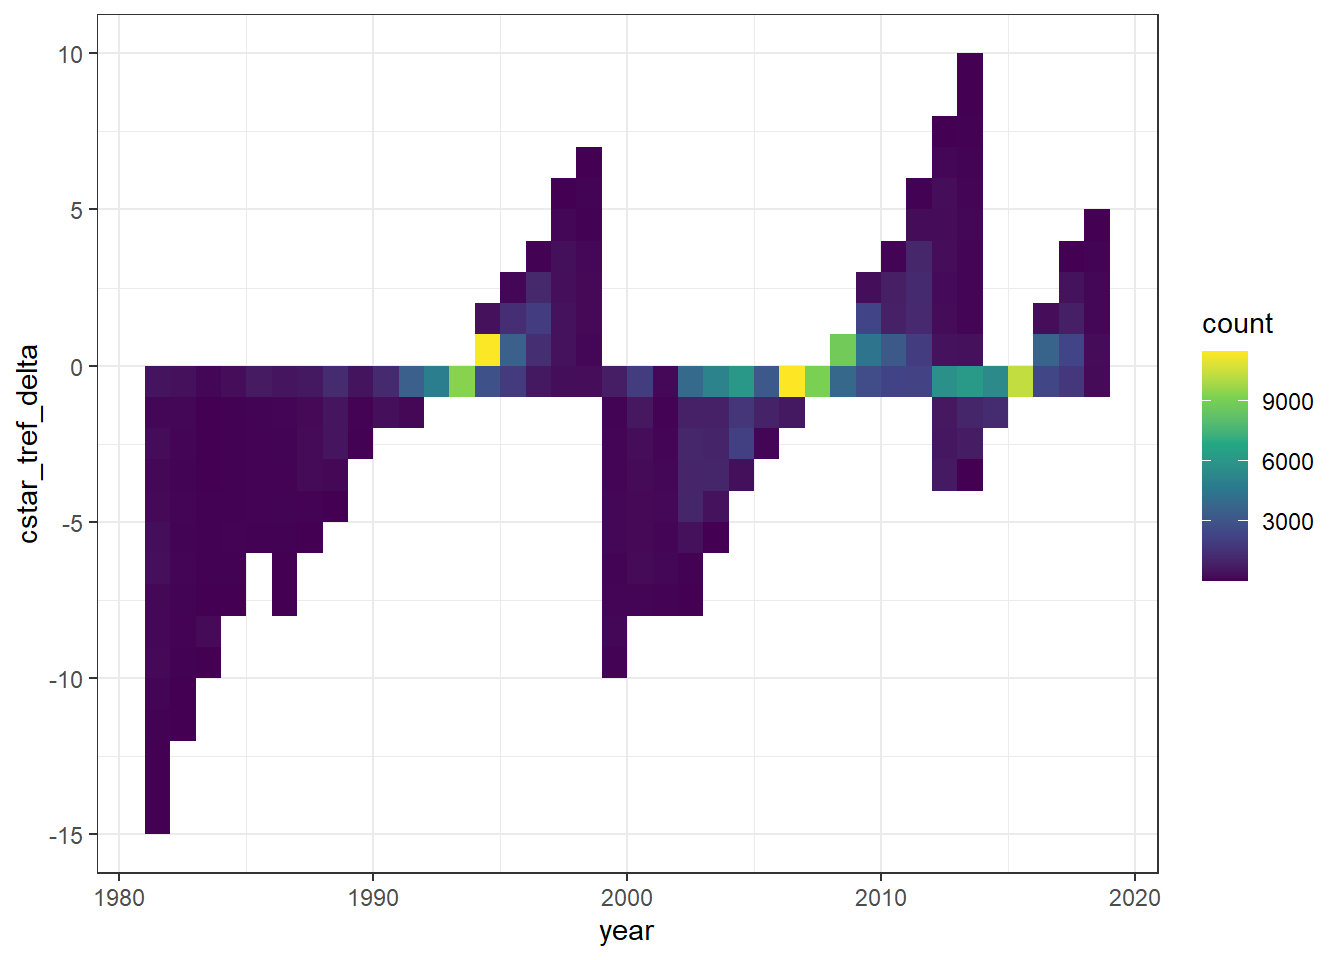
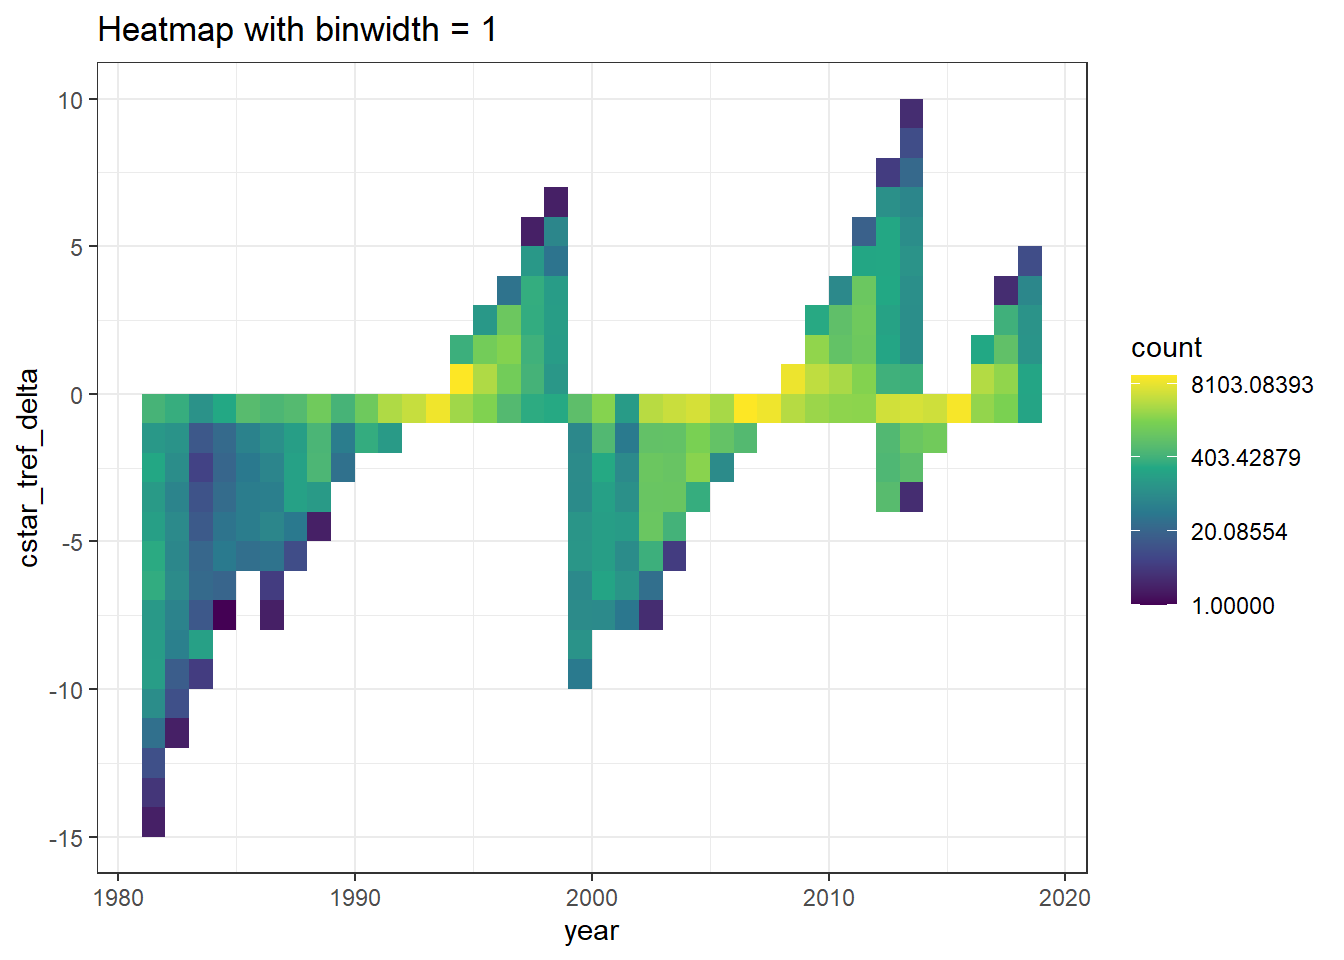
Build site.

diff --git a/docs/eMLR_data_preparation.html b/docs/eMLR_data_preparation.html
@@ -615,16 +615,16 @@ This reproducible <a href="http://rmarkdown.rstudio.com">R Markdown</a> analysis
 <div class="panel panel-default">
 <div class="panel-heading">
 <p class="panel-title">
-<a data-toggle="collapse" data-parent="#workflowr-checks" href="#strongRepositoryversionstrongahrefhttpsgithubcomjensdanielmuellerCanteMLRtreeeb8366004928a2a5e1cb3357b8668fb3d3811cb2targetblankeb83660a"> <span class="glyphicon glyphicon-ok text-success" aria-hidden="true"></span> <strong>Repository version:</strong> <a href="https://github.com/jens-daniel-mueller/Cant_eMLR/tree/eb8366004928a2a5e1cb3357b8668fb3d3811cb2" target="_blank">eb83660</a> </a>
+<a data-toggle="collapse" data-parent="#workflowr-checks" href="#strongRepositoryversionstrongahrefhttpsgithubcomjensdanielmuellerCanteMLRtree9b95647a7fe12469619fb257df40b603d8c56175targetblank9b95647a"> <span class="glyphicon glyphicon-ok text-success" aria-hidden="true"></span> <strong>Repository version:</strong> <a href="https://github.com/jens-daniel-mueller/Cant_eMLR/tree/9b95647a7fe12469619fb257df40b603d8c56175" target="_blank">9b95647</a> </a>
 </p>
 </div>
[2 lines of base64/hex data omitted]
 <div class="panel-body">
 <p>
 Great! You are using Git for version control. Tracking code development and connecting the code version to the results is critical for reproducibility.
 </p>
 <p>
-The results in this page were generated with repository version <a href="https://github.com/jens-daniel-mueller/Cant_eMLR/tree/eb8366004928a2a5e1cb3357b8668fb3d3811cb2" target="_blank">eb83660</a>. See the <em>Past versions</em> tab to see a history of the changes made to the R Markdown and HTML files.
+The results in this page were generated with repository version <a href="https://github.com/jens-daniel-mueller/Cant_eMLR/tree/9b95647a7fe12469619fb257df40b603d8c56175" target="_blank">9b95647</a>. See the <em>Past versions</em> tab to see a history of the changes made to the R Markdown and HTML files.
 </p>
 <p>
 Note that you need to be careful to ensure that all relevant files for the analysis have been committed to Git prior to generating the results (you can use <code>wflow_publish</code> or <code>wflow_git_commit</code>). workflowr only checks the R Markdown file, but you know if there are other scripts or data files that it depends on. Below is the status of the Git repository when the results were generated:
@@ -672,6 +672,40 @@ Message
 </tr>
 </thead>
 <tbody>
+<tr>
+<td>
+Rmd
+</td>
+<td>
+<a href="https://github.com/jens-daniel-mueller/Cant_eMLR/blob/9b95647a7fe12469619fb257df40b603d8c56175/analysis/eMLR_data_preparation.Rmd" target="_blank">9b95647</a>
+</td>
+<td>
+jens-daniel-mueller
+</td>
+<td>
+2020-11-27
+</td>
+<td>
+change binwidth of control plots
+</td>
+</tr>
+<tr>
+<td>
+html
+</td>
+<td>
+<a href="https://rawcdn.githack.com/jens-daniel-mueller/Cant_eMLR/75e56a15c325a39a76602b1f7af27bf8a759488e/docs/eMLR_data_preparation.html" target="_blank">75e56a1</a>
+</td>
+<td>
+jens-daniel-mueller
+</td>
+<td>
+2020-11-27
+</td>
+<td>
+Build site.
+</td>
+</tr>
 <tr>
 <td>
 Rmd
@@ -1913,28 +1947,24 @@ GLODAP &lt;- GLODAP %&gt;%
 </div>
 <div id="control-plots" class="section level2">
 <h2><span class="header-section-number">5.3</span> Control plots</h2>
-<div id="histogram" class="section level3">
-<h3><span class="header-section-number">5.3.1</span> Histogram</h3>
 <pre class="r"><code>GLODAP %&gt;% 
   ggplot(aes(cstar_tref_delta)) +
-  geom_histogram(binwidth = 1)</code></pre>
+  geom_histogram(binwidth = 1) +
+  labs(title = &quot;Histogramm with binwidth = 1&quot;)</code></pre>
 <p><img src="figure/eMLR_data_preparation.Rmd/cstar_reference_year_adjustment_histogram-1.png" width="672" style="display: block; margin: auto;" /></p>
-</div>
-<div id="time-series" class="section level3">
-<h3><span class="header-section-number">5.3.2</span> Time series</h3>
 <pre class="r"><code>GLODAP %&gt;% 
   sample_n(1e4) %&gt;% 
   ggplot(aes(year, cstar_tref_delta, col = cant_pos)) +
   geom_point() +
   scale_color_viridis_c() +
-  labs(title = &quot;random subsample 1e4&quot;)</code></pre>
+  labs(title = &quot;Time series of random subsample 1e4&quot;)</code></pre>
 <p><img src="figure/eMLR_data_preparation.Rmd/cstar_reference_year_adjustment_vs_time_cant-1.png" width="672" style="display: block; margin: auto;" /></p>
 <pre class="r"><code>GLODAP %&gt;% 
   ggplot(aes(year, cstar_tref_delta)) +
   geom_bin2d(binwidth = 1) +
-  scale_fill_viridis_c()</code></pre>
+  scale_fill_viridis_c(trans = &quot;log&quot;) +
+  labs(title = &quot;Heatmap with binwidth = 1&quot;)</code></pre>
 <p><img src="figure/eMLR_data_preparation.Rmd/cstar_reference_year_adjustment_vs_time_count-1.png" width="672" style="display: block; margin: auto;" /></p>
-</div>
 </div>
 </div>
 <div id="selected-section-plots" class="section level1">
